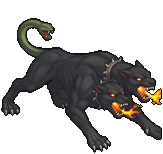
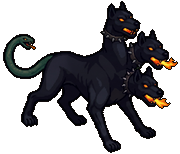
Boss dungeon 1-2: perbaikan Hydra Tulang, Hydra Lerna, Cerberus (3 kepala)
Claude-Session: https://claude.ai/code/session_0178Xsend8E9zPBDR2CqzAVs

diff --git a/sw.js b/sw.js
@@ -1,4 +1,4 @@
-const V='ud-v22';
+const V='ud-v23';
 const CORE=["./", "index.html", "manifest.json", "icon-192.png", "hero.jpg", "favicon.ico", "favicon-32.png", "favicon-16.png", "apple-touch-icon.png"], REST=["bs/d1_b1_0.png", "bs/d1_b1_1.png", "bs/d1_b1_2.png", "bs/d1_b1_3.png", "bs/d1_b2_0.png", "bs/d1_b2_1.png", "bs/d1_b2_2.png", "bs/d1_b2_3.png", "bs/d1_b3_0.png", "bs/d1_b3_1.png", "bs/d1_b3_2.png", "bs/d1_b3_3.png", "bs/d1_b4_0.png", "bs/d1_b4_1.png", "bs/d1_b4_2.png", "bs/d1_b4_3.png", "bs/d1_b5_0.png", "bs/d1_b5_1.png", "bs/d1_b5_2.png", "bs/d1_b5_3.png", "theme.mp3", "art/01.jpg", "art/02.jpg", "art/03.jpg", "art/04.jpg", "art/05.jpg", "art/06.jpg", "art/07.jpg", "art/08.jpg", "art/09.jpg", "art/10.jpg", "art/11.jpg", "art/12.jpg", "art/13.jpg", "art/14.jpg", "art/15.jpg", "art/16.jpg", "art/17.jpg", "art/18.jpg", "art/19.jpg", "art/20.jpg", "art/21.jpg", "art/22.jpg", "art/23.jpg", "art/24.jpg", "art/25.jpg", "art/26.jpg", "art/27.jpg", "art/28.jpg", "art/29.jpg", "bgs/bg0_hd.jpg", "bgs/bg1_hd.jpg", "bgs/bg2_hd.jpg", "bgs/bg3_hd.jpg", "bgs/bg4_hd.jpg", "bgs/bg5_hd.jpg", "cards/01.jpg", "cards/02.jpg", "cards/03.jpg", "cards/04.jpg", "cards/05.jpg", "cards/06.jpg", "cards/07.jpg", "cards/08.jpg", "cards/09.jpg", "cards/10.jpg", "cards/11.jpg", "cards/12.jpg", "cards/13.jpg", "cards/14.jpg", "cards/15.jpg", "cards/16.jpg", "cards/17.jpg", "cards/18.jpg", "cards/19.jpg", "cards/20.jpg", "cards/21.jpg", "cards/22.jpg", "cards/23.jpg", "cards/24.jpg", "cards/25.jpg", "cards/26.jpg", "cards/27.jpg", "cards/28.jpg", "icon-512.png", "tws/anchors.json", "tws/beam_B1.png", "tws/beam_B2.png", "tws/beam_B3.png", "tws/beam_L1.png", "tws/beam_L2.png", "tws/beam_L3.png", "tws/cannon_B1.png", "tws/cannon_B2.png", "tws/cannon_B3.png", "tws/cannon_L1.png", "tws/cannon_L2.png", "tws/cannon_L3.png", "tws/frost_B1.png", "tws/frost_B2.png", "tws/frost_B3.png", "tws/frost_L1.png", "tws/frost_L2.png", "tws/frost_L3.png", "tws/jade_L1.png", "tws/jade_L2.png", "tws/jade_L3.png", "tws/naga_L1.png", "tws/naga_L2.png", "tws/naga_L3.png", "tws/necro_L1.png", "tws/necro_L2.png", "tws/necro_L3.png", "tws/ra_L1.png", "tws/ra_L2.png", "tws/ra_L3.png", "tws/trooper_B1.png", "tws/trooper_B2.png", "tws/trooper_B3.png", "tws/trooper_L1.png", "tws/trooper_L2.png", "tws/trooper_L3.png", "tws/void_L1.png", "tws/void_L2.png", "tws/void_L3.png", "tws/zeus_L1.png", "tws/zeus_L2.png", "tws/zeus_L3.png", "bs/d0_b1_0.png", "bs/d0_b1_1.png", "bs/d0_b1_2.png", "bs/d0_b1_3.png", "bs/d0_b2_0.png", "bs/d0_b2_1.png", "bs/d0_b2_2.png", "bs/d0_b2_3.png", "bs/d0_b3_0.png", "bs/d0_b3_1.png", "bs/d0_b3_2.png", "bs/d0_b3_3.png", "bs/d0_b4_0.png", "bs/d0_b4_1.png", "bs/d0_b4_2.png", "bs/d0_b4_3.png", "bs/d0_b5_0.png", "bs/d0_b5_1.png", "bs/d0_b5_2.png", "bs/d0_b5_3.png"];
 self.addEventListener('install',e=>{e.waitUntil(caches.open(V).then(c=>Promise.all(CORE.map(u=>c.add(u).catch(()=>0)))).then(()=>self.skipWaiting()));});
 self.addEventListener('activate',e=>{e.waitUntil(caches.keys().then(ks=>Promise.all(ks.filter(k=>k!==V).map(k=>caches.delete(k)))).then(()=>self.clients.claim()));});
